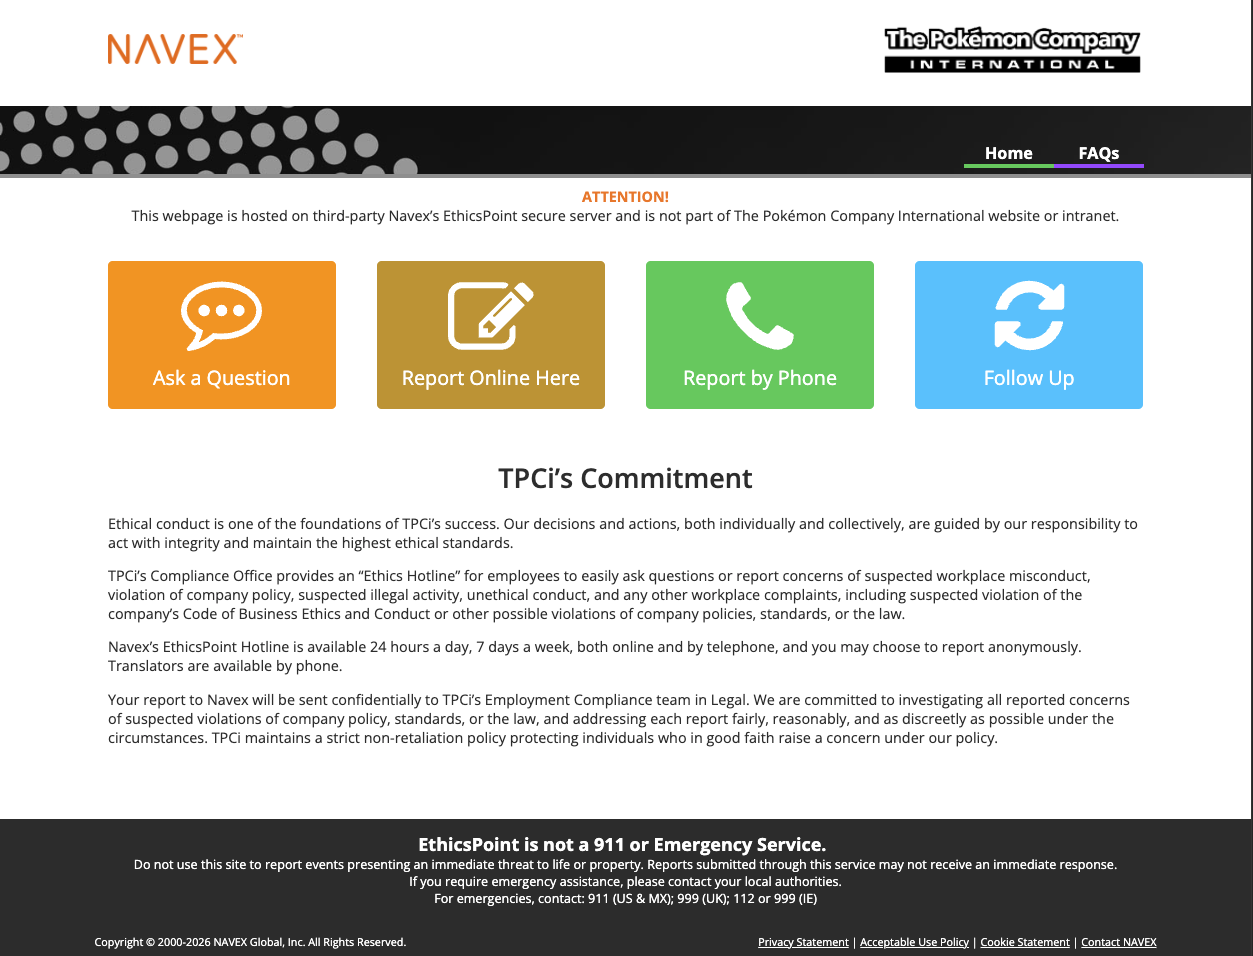
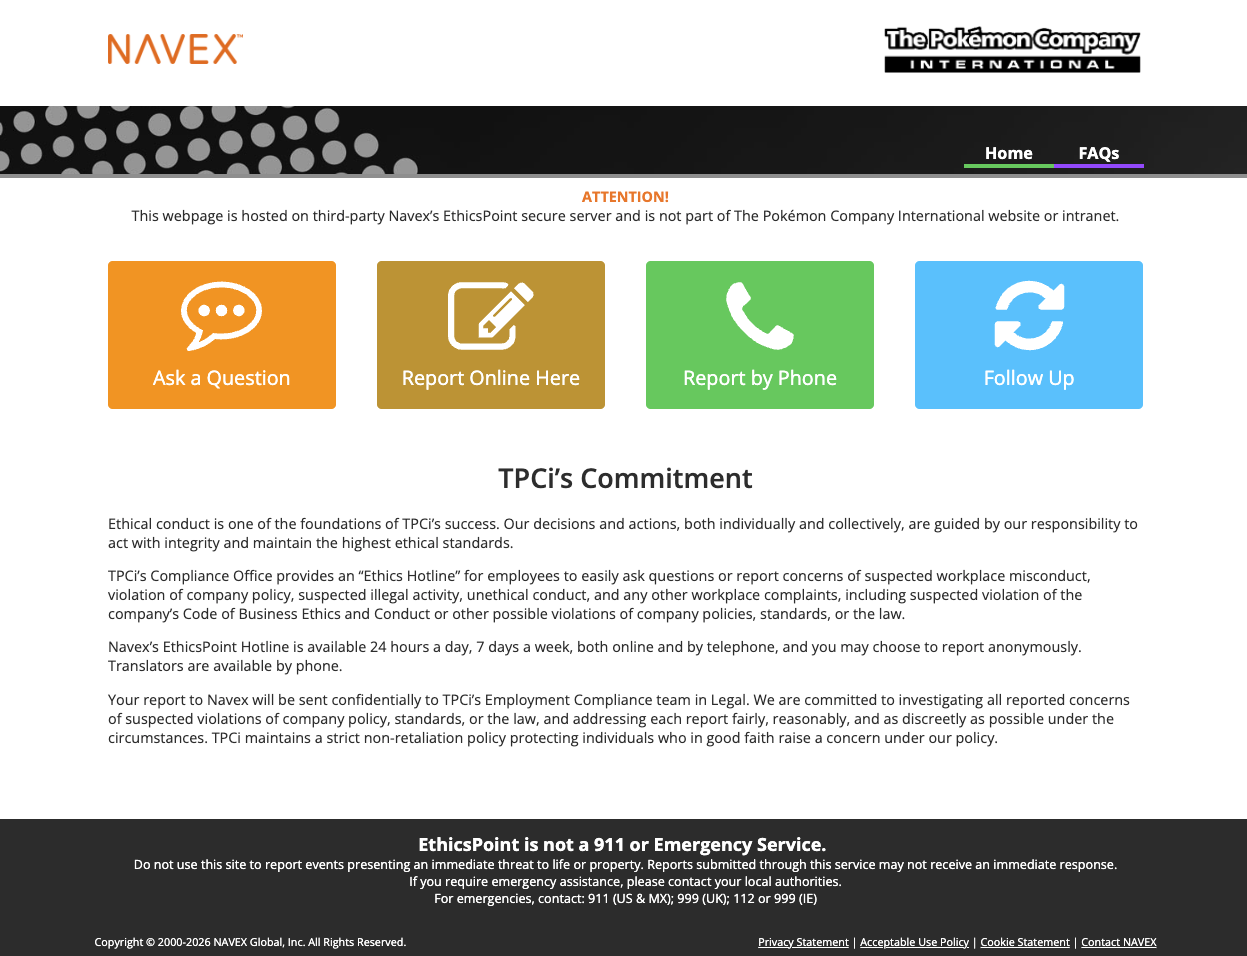
Design Updates
Hide WIP, update screenshots

diff --git a/index.html b/index.html
@@ -82,17 +82,17 @@
                 <h3>Web Intake Site Assistant Tool</h3>
                 <p></p>
                 <span class="meta">TamperMonkey</span>
-                <div class="screenshot tm-index"></div>
+                <!-- <div class="screenshot tm-index"></div> -->
                 <div class="screenshot tm-issues"></div>
                 <div class="screenshot tm-params"></div>
             </div>
 
-            <div class="project">
+            <!-- <div class="project">
                 <h3>Screen Pop Alert</h3>
                 <p></p>
                 <span class="meta">TamperMonkey</span>
                 <div class="screenshot tm-greeting"></div>
-            </div>
+            </div> -->
         </section>
 
         <section id="recent-work">

diff --git a/style.css b/style.css
@@ -175,15 +175,16 @@ section > p.lead {
 }
 
 .screenshot.tm-index {
-  background: url('/images/tm_index.png') no-repeat top center / cover;
+  background: url('/images/tm_index.png') no-repeat center / contain;
+  height: 200px;
 }
 
 .screenshot.tm-issues {
-  background: url('/images/tm_issues.png') no-repeat top center / cover;
+  background: url('/images/tm_issues.png') no-repeat top left / cover;
 }
 
 .screenshot.tm-params {
-  background: url('/images/tm_params.png') no-repeat top center / cover;
+  background: url('/images/tm_params.png') no-repeat top left / cover;
 }
 
 .screenshot.tm-greeting {
